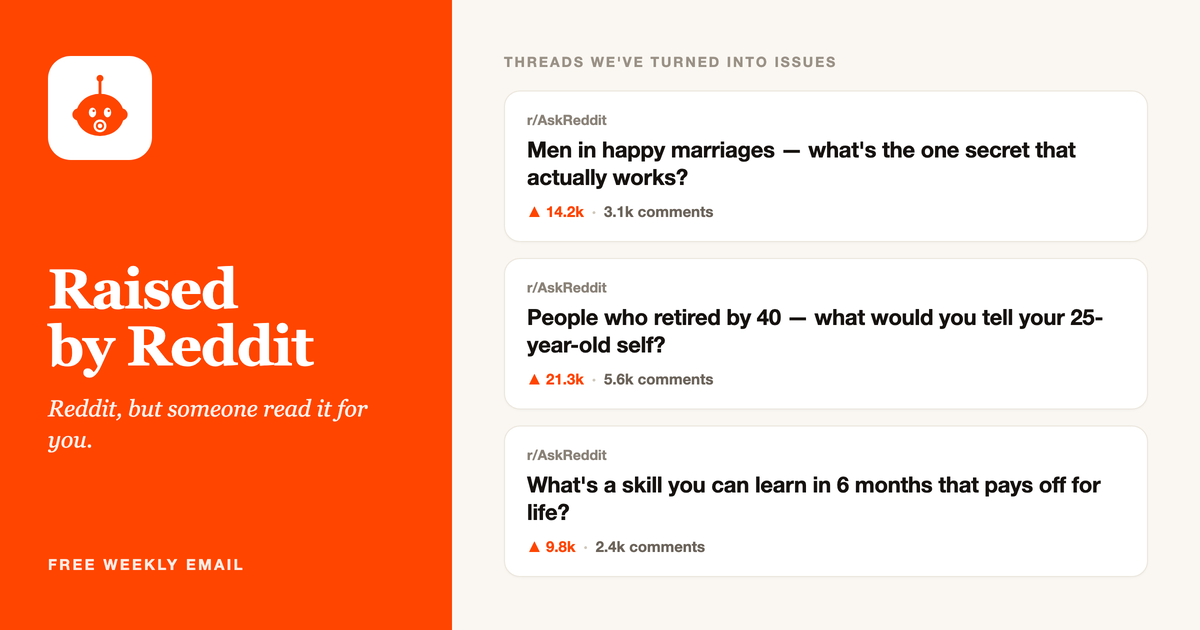
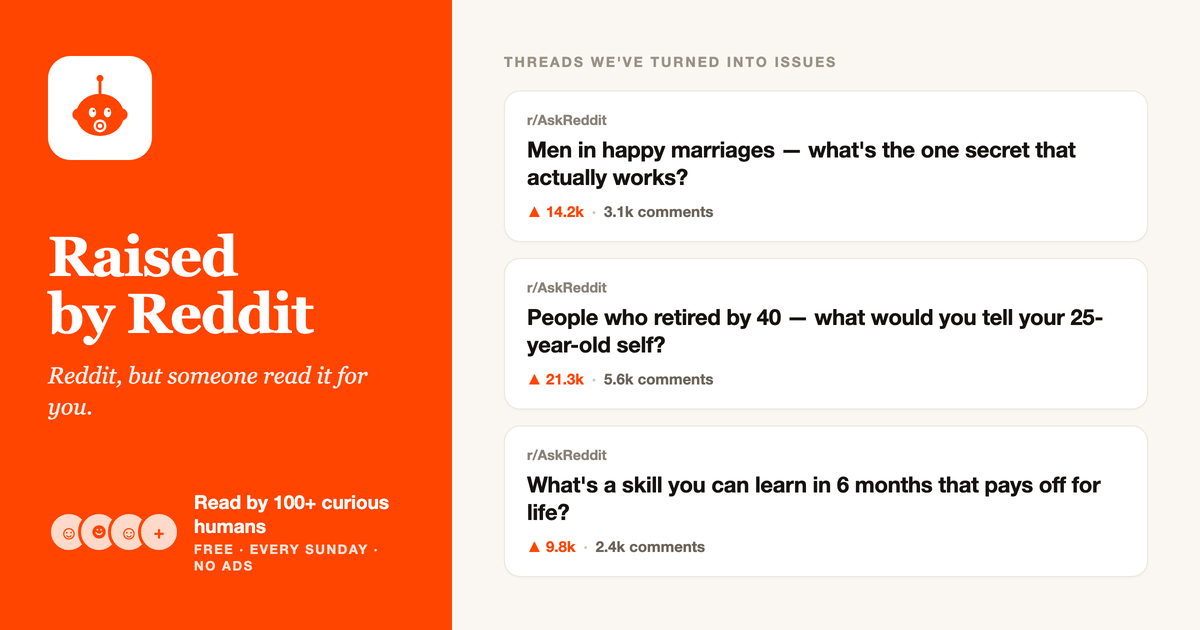
Add social proof row to thumbnail (Read by 100+ · free · weekly)

Changed region(s): [[0.0308, 0.3619, 0.3083, 0.6635], [0.0308, 0.7841, 0.3392, 0.9048], [0.0308, 0.6937, 0.0925, 0.7238]]

diff --git a/brand/og.html b/brand/og.html
@@ -15,8 +15,16 @@
     line-height: 1.02; letter-spacing: -0.02em; margin-bottom: 18px; }
   .brand .tag { font-size: 23px; line-height: 1.35; opacity: 0.92; font-style: italic;
     font-family: Georgia, serif; max-width: 320px; }
-  .brand .foot { font-size: 15px; letter-spacing: 0.16em; text-transform: uppercase;
-    font-weight: 700; opacity: 0.9; }
+  .brand .proof { display: flex; align-items: center; gap: 14px; }
+  .brand .avatars { display: flex; }
+  .brand .avatars span { width: 42px; height: 42px; border-radius: 50%;
+    background: #ffd9c9; border: 3px solid #FF4500; margin-left: -12px;
+    display: flex; align-items: center; justify-content: center;
+    font-size: 18px; color: #FF4500; font-weight: 800; }
+  .brand .avatars span:first-child { margin-left: 0; }
+  .brand .proofText { font-size: 19px; font-weight: 700; line-height: 1.25; }
+  .brand .proofText small { display: block; font-size: 13px; font-weight: 700;
+    letter-spacing: 0.12em; text-transform: uppercase; opacity: 0.85; margin-top: 4px; }
 
   /* Right cards panel */
   .feed { flex: 1; background: #faf7f2; padding: 44px 52px;
@@ -52,7 +60,10 @@
       <h1>Raised<br/>by Reddit</h1>
       <div class="tag">Reddit, but someone read it for you.</div>
     </div>
-    <div class="foot">Free weekly email</div>
+    <div class="proof">
+      <div class="avatars"><span>☺</span><span>☻</span><span>☺</span><span>+</span></div>
+      <div class="proofText">Read by 100+ curious humans<small>Free · Every Sunday · No ads</small></div>
+    </div>
   </div>
 
   <div class="feed">